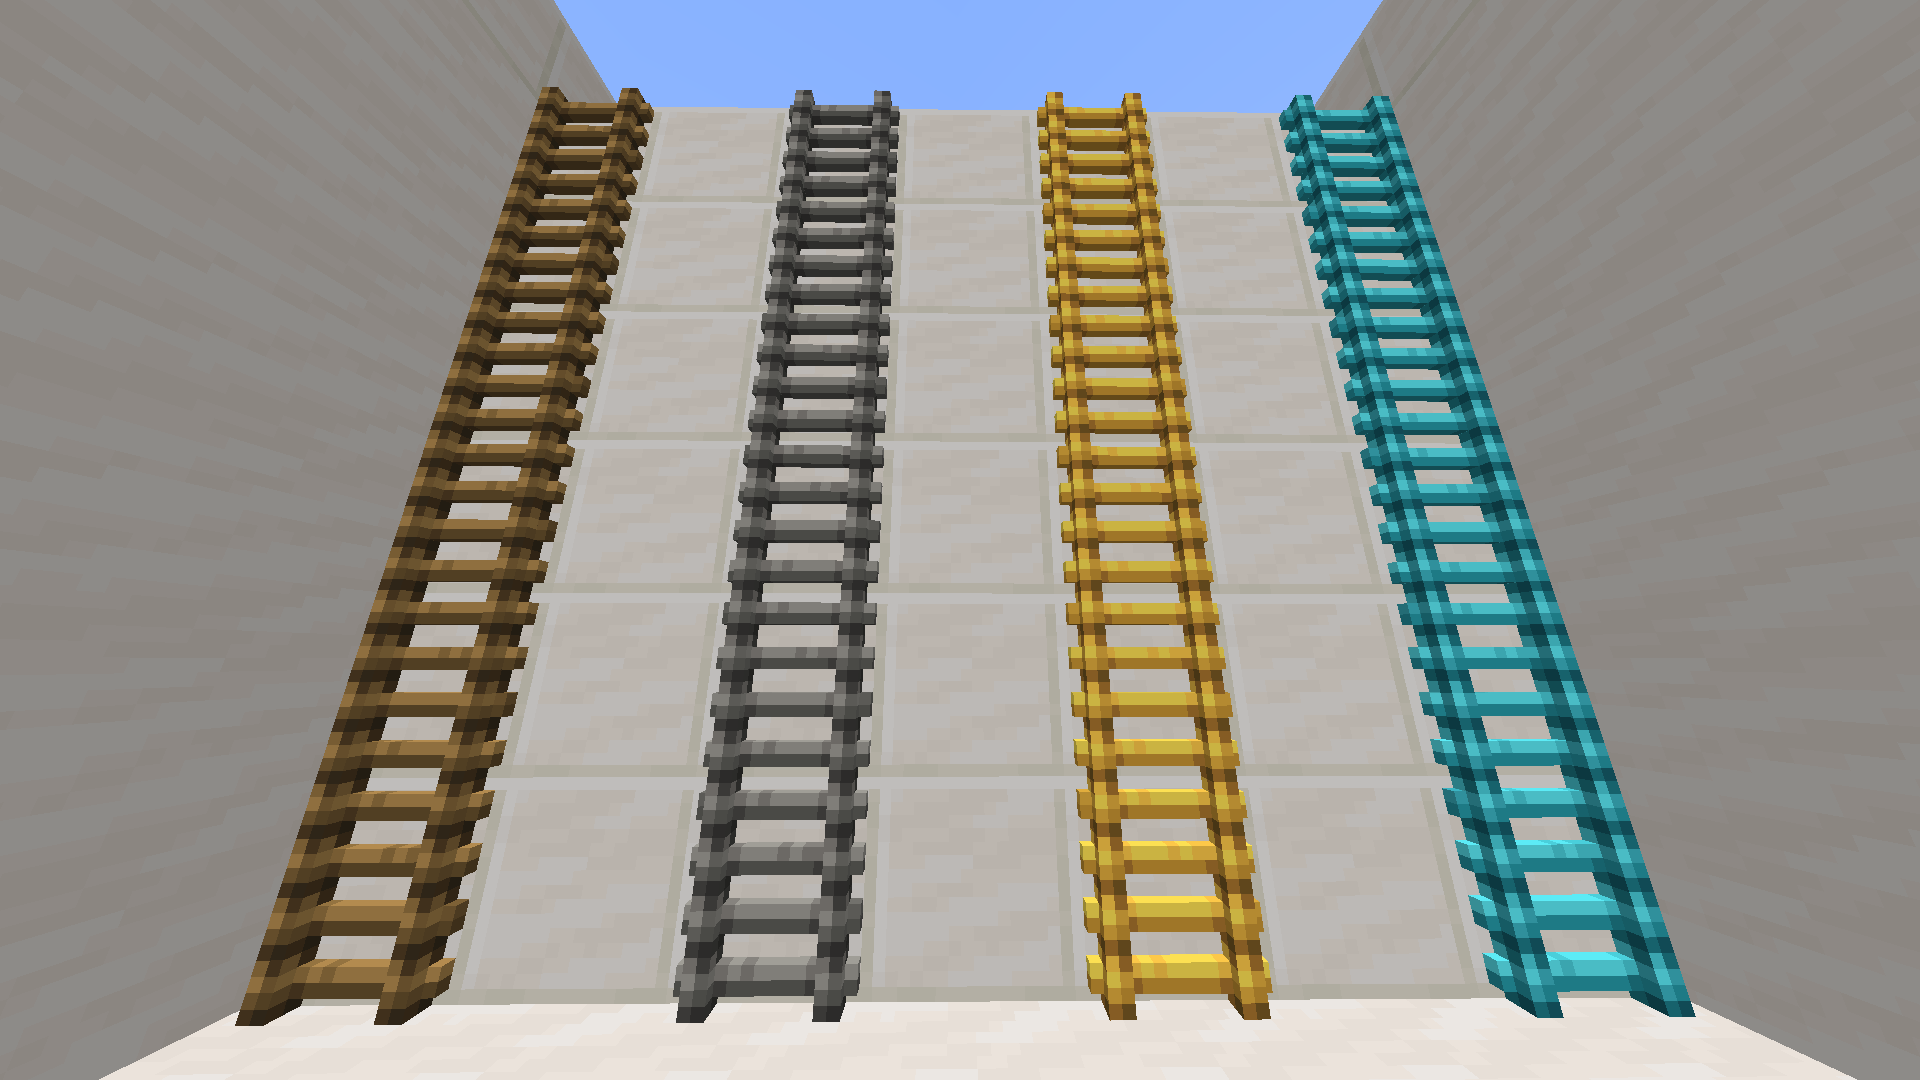
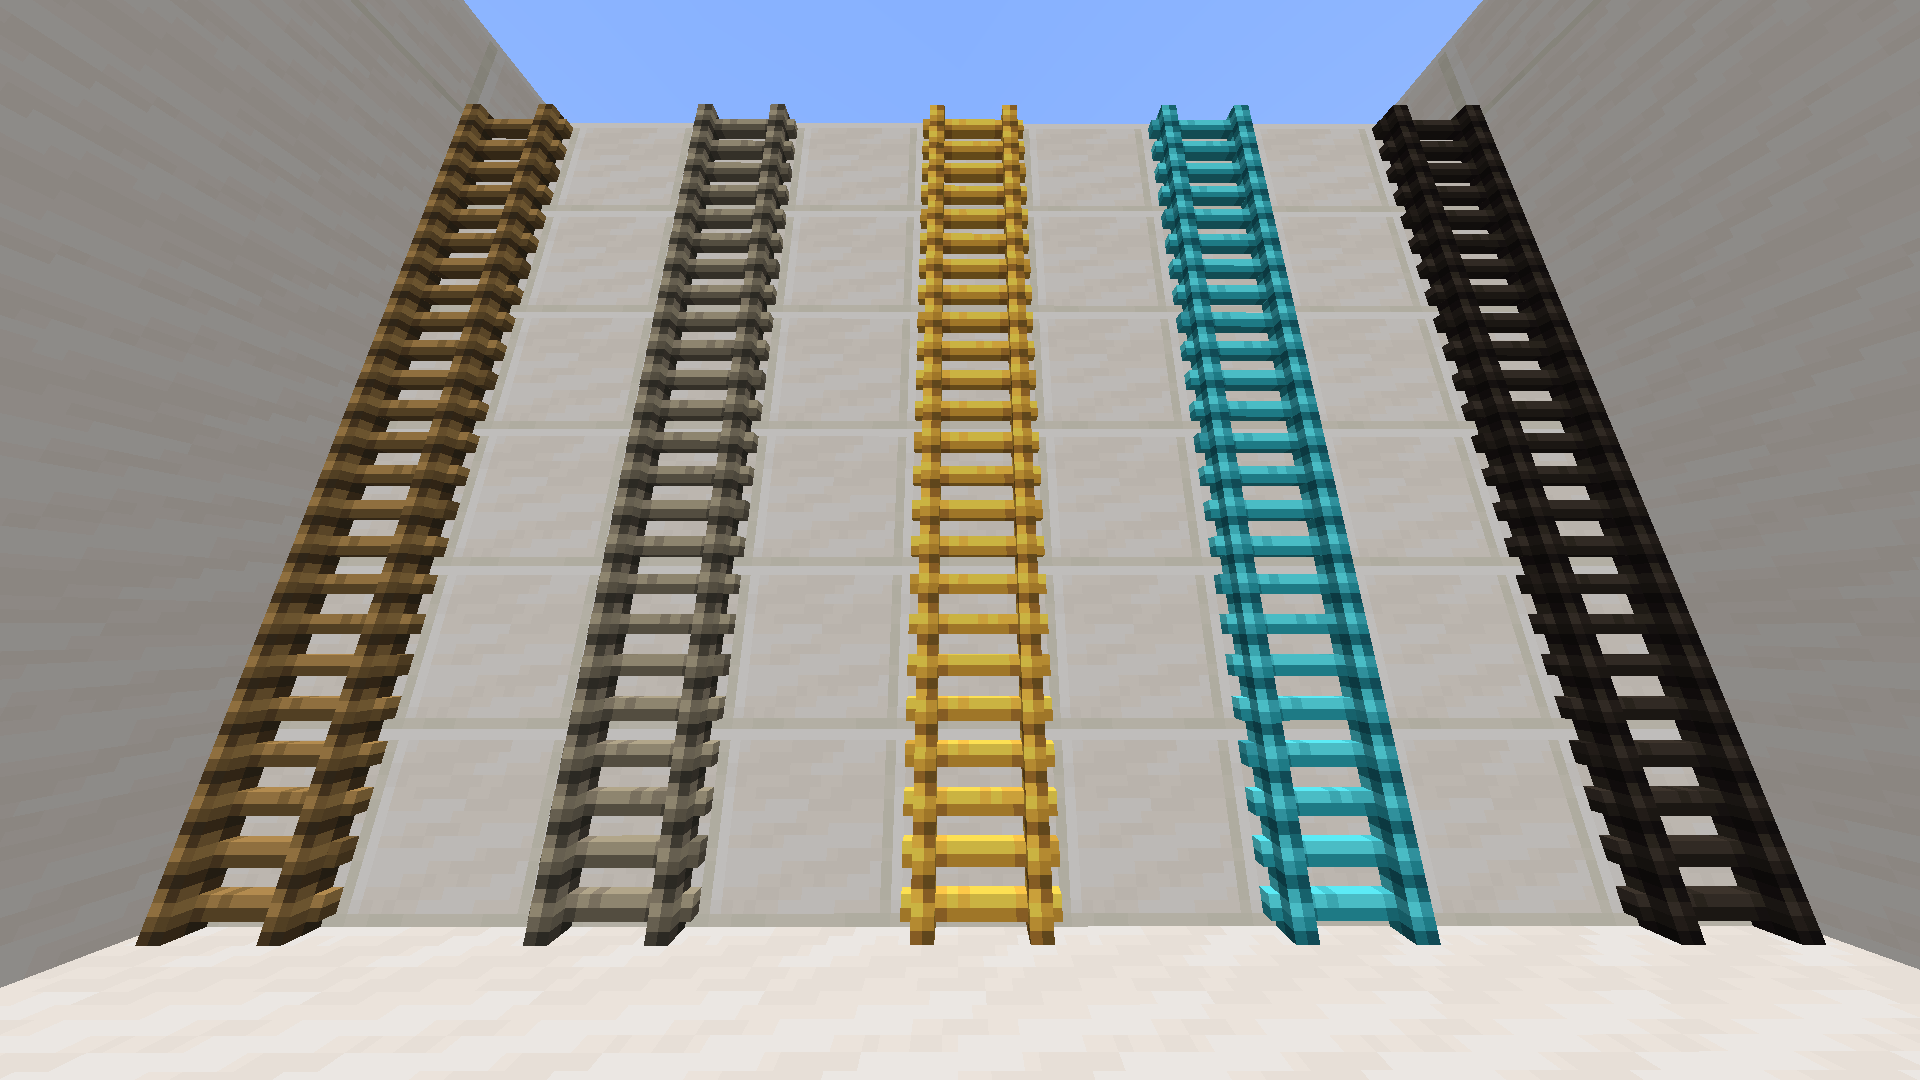
Added netherite ladders

diff --git a/src/main/java/com/github/makubas/better_ladders/BetterLadders.java b/src/main/java/com/github/makubas/better_ladders/BetterLadders.java
@@ -3,6 +3,7 @@ package com.github.makubas.better_ladders;
 import com.github.makubas.better_ladders.block.DiamondLadderBlock;
 import com.github.makubas.better_ladders.block.GoldLadderBlock;
 import com.github.makubas.better_ladders.block.IronLadderBlock;
+import com.github.makubas.better_ladders.block.NetheriteLadderBlock;
 import net.fabricmc.api.ModInitializer;
 import net.fabricmc.fabric.api.item.v1.FabricItemSettings;
 import net.minecraft.item.BlockItem;
@@ -16,6 +17,7 @@ public class BetterLadders implements ModInitializer {
 	private static final IronLadderBlock IRON_LADDER = new IronLadderBlock();
 	private static final GoldLadderBlock GOLD_LADDER = new GoldLadderBlock();
 	private static final DiamondLadderBlock DIAMOND_LADDER = new DiamondLadderBlock();
+	private static final NetheriteLadderBlock NETHERITE_LADDER = new NetheriteLadderBlock();
 
 	@Override
 	public void onInitialize() {
@@ -30,5 +32,7 @@ public class BetterLadders implements ModInitializer {
 		Registry.register(Registry.BLOCK, new Identifier("betlad", "diamond_ladder"), DIAMOND_LADDER);
 		Registry.register(Registry.ITEM, new Identifier("betlad", "diamond_ladder"), new BlockItem(DIAMOND_LADDER, new FabricItemSettings().group(ItemGroup.MISC)));
 
+		Registry.register(Registry.BLOCK, new Identifier("betlad", "netherite_ladder"), NETHERITE_LADDER);
+		Registry.register(Registry.ITEM, new Identifier("betlad", "netherite_ladder"), new BlockItem(NETHERITE_LADDER, new FabricItemSettings().group(ItemGroup.MISC)));
 	}
 }

diff --git a/src/main/java/com/github/makubas/better_ladders/mixin/PlayerEntityMixin.java b/src/main/java/com/github/makubas/better_ladders/mixin/PlayerEntityMixin.java
@@ -3,6 +3,7 @@ package com.github.makubas.better_ladders.mixin;
 import com.github.makubas.better_ladders.block.DiamondLadderBlock;
 import com.github.makubas.better_ladders.block.GoldLadderBlock;
 import com.github.makubas.better_ladders.block.IronLadderBlock;
+import com.github.makubas.better_ladders.block.NetheriteLadderBlock;
 import net.minecraft.block.Block;
 import net.minecraft.block.Blocks;
 import net.minecraft.client.MinecraftClient;
@@ -56,6 +57,8 @@ public abstract class PlayerEntityMixin extends LivingEntityMixin {
                 motion = getMotionOnLadder(motion, ((GoldLadderBlock) block).ladderSpeed);
             } else if (block instanceof DiamondLadderBlock) {
                 motion = getMotionOnLadder(motion, ((DiamondLadderBlock) block).ladderSpeed);
+            } else if (block instanceof NetheriteLadderBlock) {
+                motion = getMotionOnLadder(motion, ((NetheriteLadderBlock) block).ladderSpeed);
             }
         }
         cir.setReturnValue(motion);

diff --git a/src/main/java/com/github/makubas/better_ladders/block/NetheriteLadderBlock.java b/src/main/java/com/github/makubas/better_ladders/block/NetheriteLadderBlock.java
@@ -1,0 +1,23 @@
+package com.github.makubas.better_ladders.block;
+
+import com.github.makubas.better_ladders.config.ConfigFile;
+import net.fabricmc.fabric.api.object.builder.v1.block.FabricBlockSettings;
+import net.fabricmc.fabric.api.tool.attribute.v1.FabricToolTags;
+import net.minecraft.block.LadderBlock;
+import net.minecraft.block.Material;
+import net.minecraft.sound.BlockSoundGroup;
+
+
+public class NetheriteLadderBlock extends LadderBlock {
+
+    public double ladderSpeed = ConfigFile.NETHERITE_LADDER_SPEED;
+
+    public NetheriteLadderBlock() {
+        super(FabricBlockSettings.of(Material.METAL)
+                .breakByHand(false)
+                .breakByTool(FabricToolTags.PICKAXES)
+                .sounds(BlockSoundGroup.METAL)
+                .hardness(2.4F)
+                .nonOpaque());
+    }
+}

diff --git a/src/main/java/com/github/makubas/better_ladders/config/ConfigFile.java b/src/main/java/com/github/makubas/better_ladders/config/ConfigFile.java
@@ -5,4 +5,5 @@ public class ConfigFile {
     public static double IRON_LADDER_SPEED = 0.18D;
     public static double GOLD_LADDER_SPEED = 0.24D;
     public static double DIAMOND_LADDER_SPEED = 0.30D;
+    public static double NETHERITE_LADDER_SPEED = 0.36D;
 }

diff --git a/README.md b/README.md
@@ -7,6 +7,7 @@ It adds **3 NEW** ladder types:
 * Iron
 * Gold
 * Diamond
+* Netherite
 
 You can change each one's speed in *ConfigFile*. By default, wood ladders are 100% speed, and each better one add +50%
 speed of the wood one.
